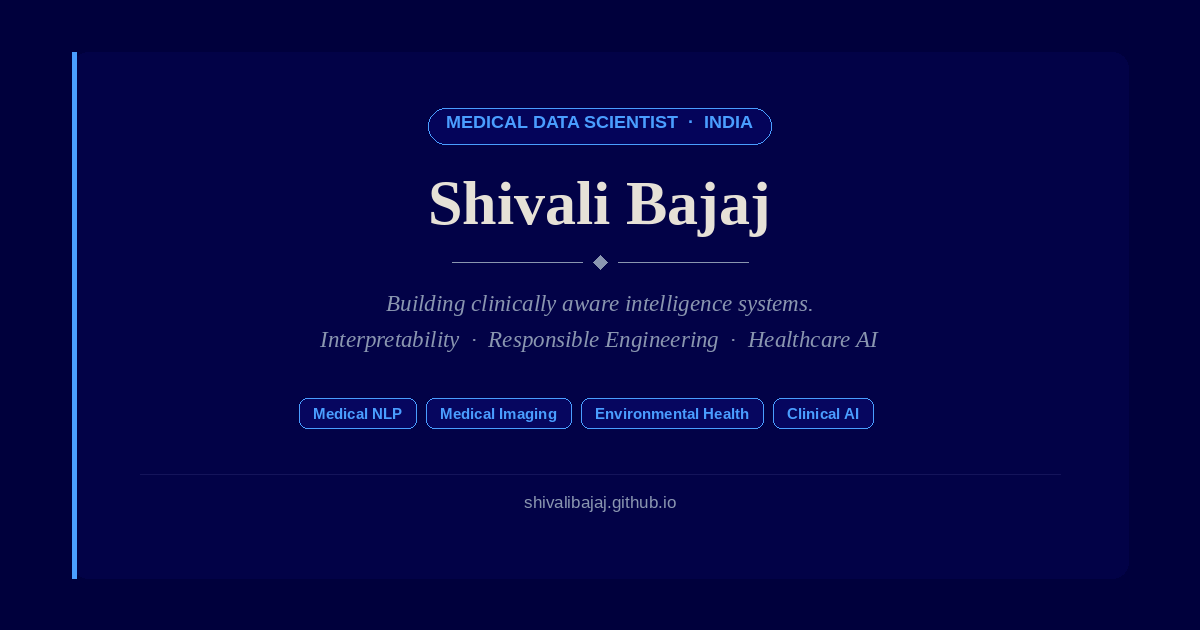
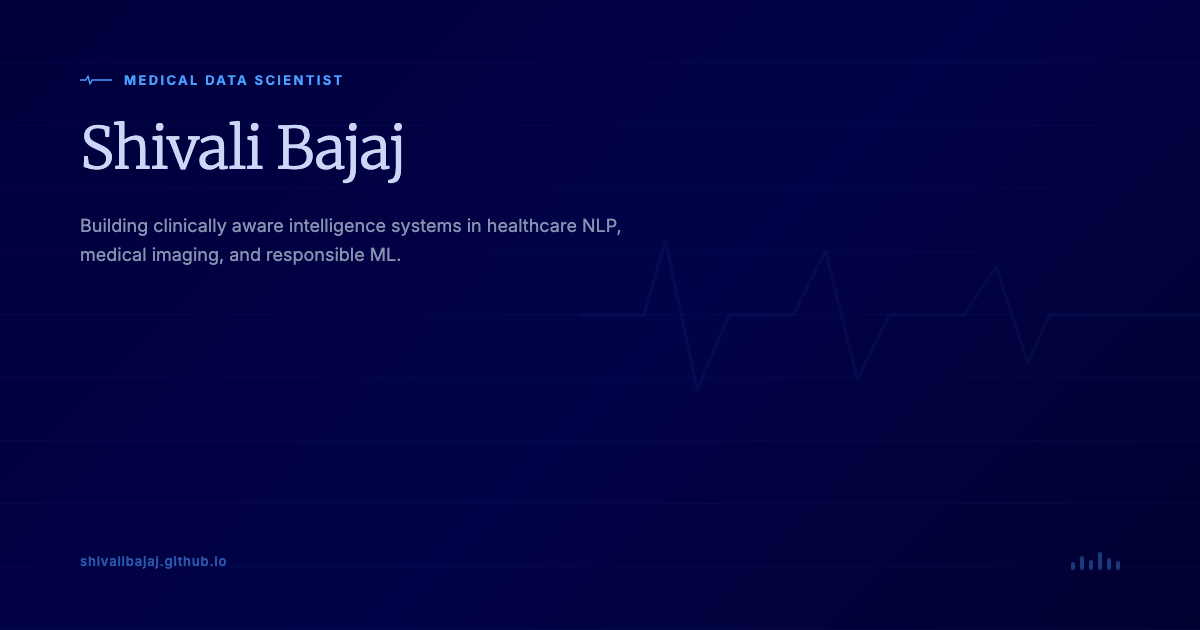
add og image and tidy up internal files

diff --git a/scripts/generate-og.js b/scripts/generate-og.js
@@ -1,0 +1,177 @@
+/**
+ * generate-og.js
+ * Generates public/og-image.png at exactly 1200x630px
+ * using Playwright to screenshot an inline HTML template.
+ *
+ * Run from repo root:  node scripts/generate-og.js
+ */
+
+const { chromium } = require("@playwright/test");
+const path = require("path");
+const fs = require("fs");
+
+// ── OG image HTML ────────────────────────────────────────────────────────────
+// Inline everything — fonts loaded from Google Fonts CDN at screenshot time.
+const HTML = `<!DOCTYPE html>
+<html>
+<head>
+<meta charset="utf-8">
+<link rel="preconnect" href="https://fonts.googleapis.com">
+<link rel="stylesheet" href="https://fonts.googleapis.com/css2?family=Inter:wght@400;600;700&family=Merriweather:ital,wght@0,300;1,300&display=swap">
+<style>
+  * { margin: 0; padding: 0; box-sizing: border-box; }
+  body {
+    width: 1200px; height: 630px; overflow: hidden;
+    background: linear-gradient(135deg, #00003C 0%, #020248 55%, #010130 100%);
+    font-family: 'Inter', sans-serif;
+    position: relative;
+  }
+
+  /* Faint horizontal grid lines */
+  .grid {
+    position: absolute; inset: 0;
+    background-image: repeating-linear-gradient(
+      0deg,
+      rgba(74,158,255,0.04) 0px, rgba(74,158,255,0.04) 1px,
+      transparent 1px, transparent 63px
+    );
+  }
+
+  /* Ghost ECG — right side background */
+  .ecg-ghost {
+    position: absolute; right: -20px; top: 50%;
+    transform: translateY(-50%);
+    opacity: 0.05; width: 640px;
+  }
+
+  /* Main content */
+  .content {
+    position: relative; z-index: 1;
+    height: 100%;
+    padding: 72px 80px 60px 80px;
+    display: flex; flex-direction: column;
+    justify-content: space-between;
+  }
+
+  .top { display: flex; flex-direction: column; gap: 28px; }
+
+  /* Role label */
+  .role {
+    display: flex; align-items: center; gap: 12px;
+    font-size: 13px; font-weight: 700;
+    letter-spacing: 0.18em; text-transform: uppercase;
+    color: #4A9EFF;
+  }
+
+  /* Name */
+  .name {
+    font-family: 'Merriweather', Georgia, serif;
+    font-weight: 300; font-size: 58px;
+    color: #CCD6F6; line-height: 1.15;
+    letter-spacing: -0.01em;
+  }
+
+  /* Tagline */
+  .tagline {
+    font-size: 18px; font-weight: 400;
+    color: #8892B0; line-height: 1.65;
+    max-width: 580px;
+  }
+
+  /* Bottom row */
+  .bottom {
+    display: flex; align-items: center;
+    justify-content: space-between;
+  }
+
+  .url {
+    font-size: 13px; font-weight: 600;
+    letter-spacing: 0.06em;
+    color: rgba(74,158,255,0.55);
+  }
+
+  /* Vitals bars — matches WhyHealthcare BAR_HEIGHTS */
+  .vitals {
+    display: flex; align-items: flex-end; gap: 5px;
+    opacity: 0.35;
+  }
+  .vitals span {
+    display: block; width: 4px;
+    background: #4A9EFF; border-radius: 2px;
+  }
+</style>
+</head>
+<body>
+  <div class="grid"></div>
+
+  <!-- Ghost ECG waveform -->
+  <svg class="ecg-ghost" viewBox="0 0 600 200" fill="none">
+    <polyline
+      points="0,100 60,100 80,30 110,170 140,100 170,100 200,100
+              230,40 260,160 290,100 320,100 360,100
+              390,55 420,145 440,100 480,100 600,100"
+      stroke="#4A9EFF" stroke-width="3"
+      stroke-linecap="round" stroke-linejoin="round"
+    />
+  </svg>
+
+  <div class="content">
+    <div class="top">
+      <!-- Role label with mini ECG -->
+      <div class="role">
+        <svg width="32" height="12" viewBox="0 0 32 12" fill="none">
+          <polyline points="0,6 6,6 8,2 10,10 12,6 14,6 32,6"
+            stroke="#4A9EFF" stroke-width="1.4"
+            stroke-linecap="round" stroke-linejoin="round"/>
+        </svg>
+        Medical Data Scientist
+      </div>
+
+      <h1 class="name">Shivali Bajaj</h1>
+
+      <p class="tagline">
+        Building clinically aware intelligence systems in healthcare NLP,
+        medical imaging, and responsible ML.
+      </p>
+    </div>
+
+    <div class="bottom">
+      <span class="url">shivalibajaj.github.io</span>
+      <!-- Vitals bars: heights match BAR_HEIGHTS = [8,14,10,18,12,9] -->
+      <div class="vitals">
+        <span style="height:8px"></span>
+        <span style="height:14px"></span>
+        <span style="height:10px"></span>
+        <span style="height:18px"></span>
+        <span style="height:12px"></span>
+        <span style="height:9px"></span>
+      </div>
+    </div>
+  </div>
+</body>
+</html>`;
+
+// ── Screenshot ───────────────────────────────────────────────────────────────
+(async () => {
+  const outPath = path.resolve(__dirname, "../public/og-image.png");
+
+  // Make sure public/ exists
+  fs.mkdirSync(path.dirname(outPath), { recursive: true });
+
+  const browser = await chromium.launch();
+  const page = await browser.newPage();
+
+  // Set exact OG image dimensions
+  await page.setViewportSize({ width: 1200, height: 630 });
+
+  // Load the HTML (with font CDN access)
+  await page.setContent(HTML, { waitUntil: "networkidle" });
+
+  // Extra wait to ensure fonts are rendered
+  await page.waitForTimeout(500);
+
+  await page.screenshot({ path: outPath, type: "png" });
+  await browser.close();
+
+  console.log(`✓ OG image saved → ${outPath}`);
+})();
